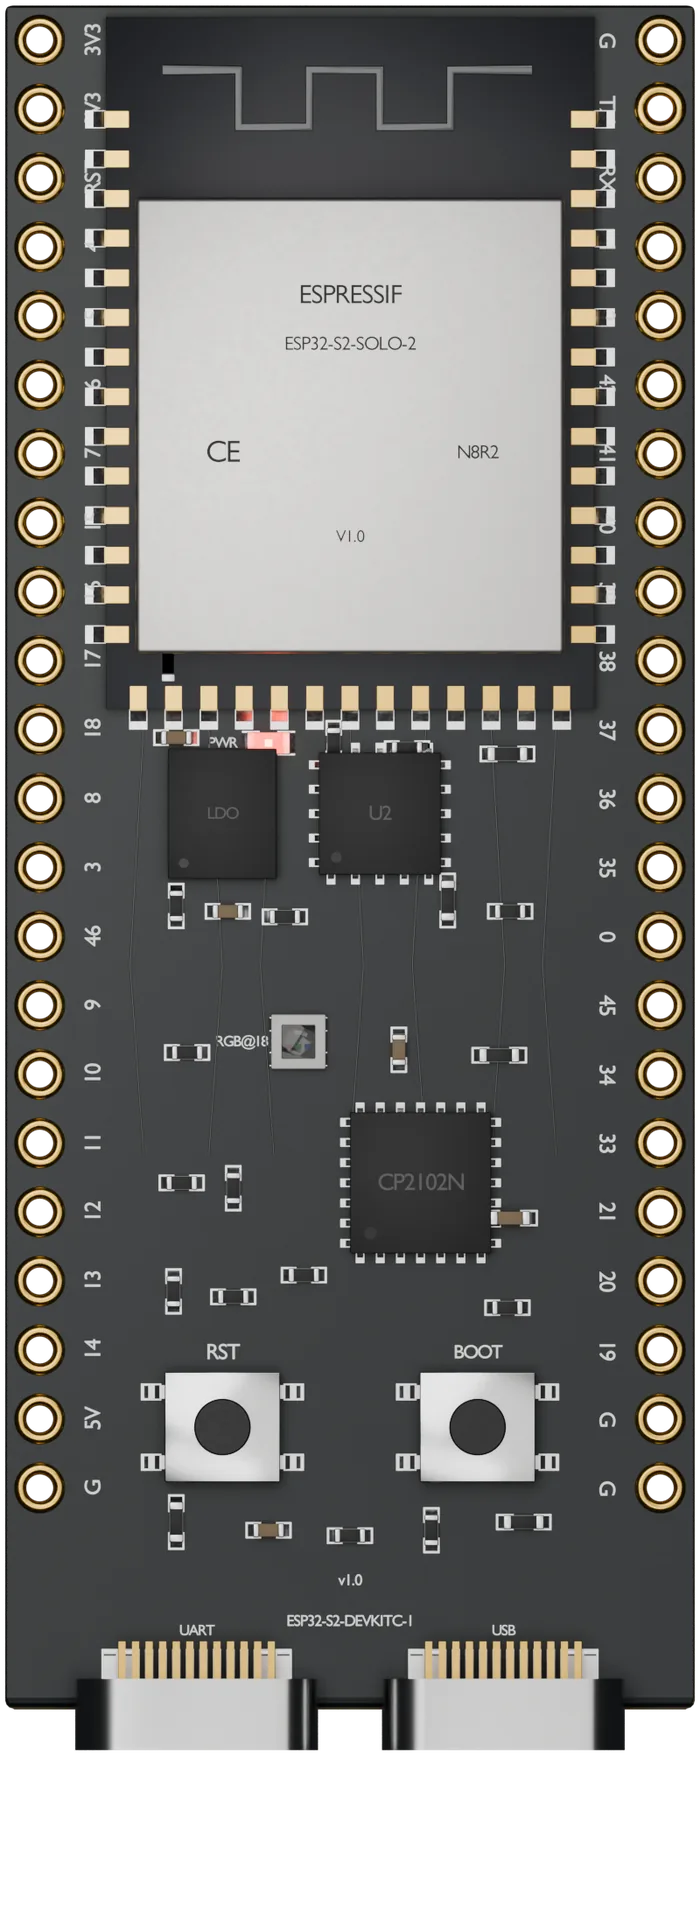
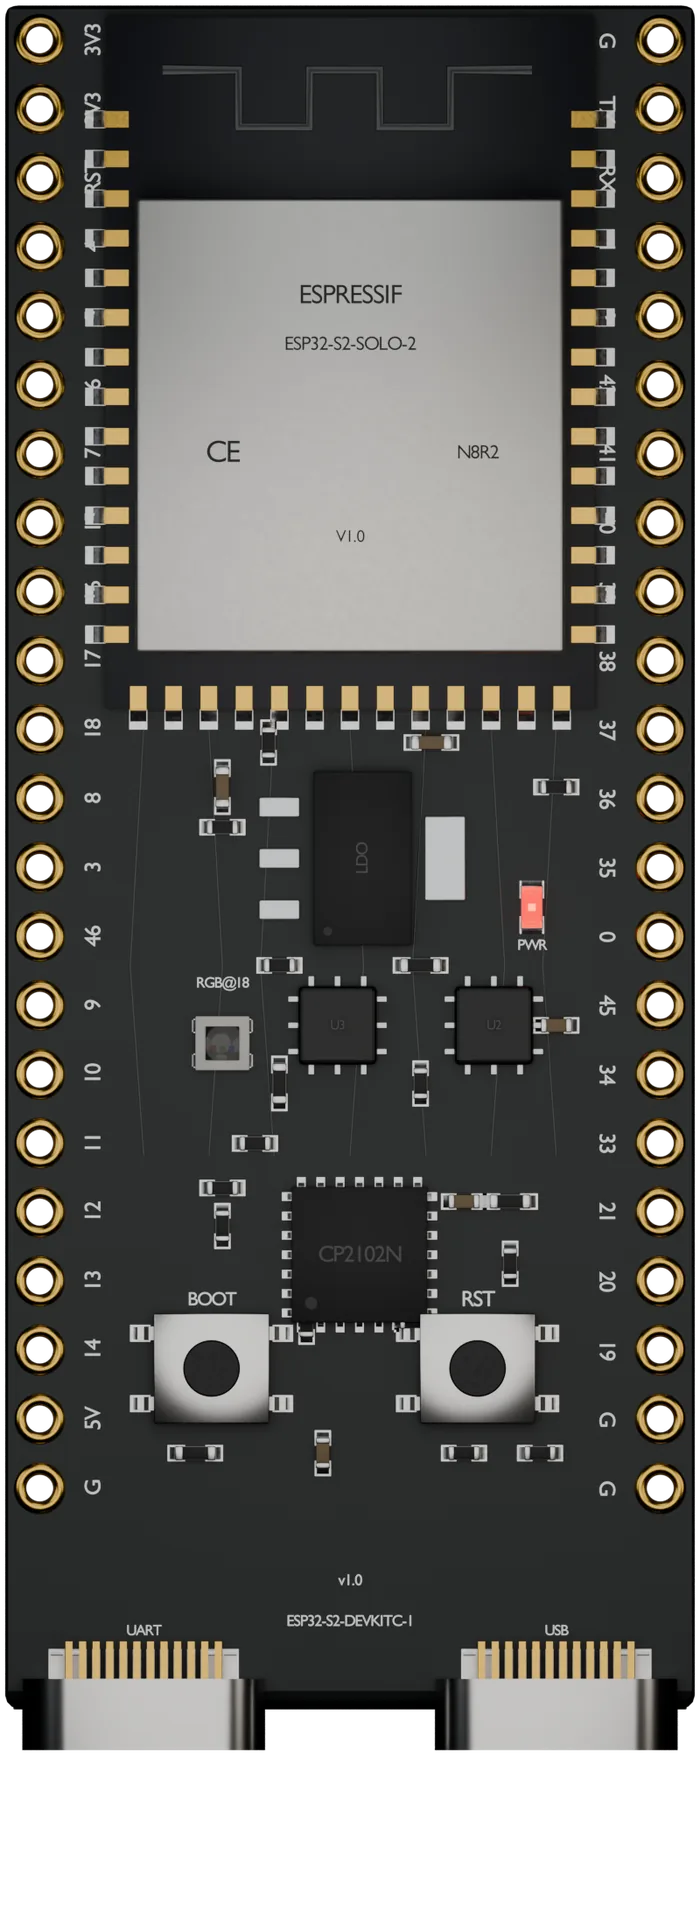
feat(boards): place Espressif DevKit parts from photos, not PCB layouts
The ESP32-C3-DevKitM-1, S2-DevKitC-1, S3-DevKitC-1, C6-DevKitC-1,
C6-DevKitM-1 and H2-DevKitM-1 renders placed their chips from
Espressif's PCB layout PDFs, or from a shared template. Each board's
LDO, USB-UART bridge, LEDs, buttons and USB-C connectors are now placed
from Espressif's annotated photograph or pinout illustration; board
size, headers and module still come from the dimension drawings.

Every render keeps its camera and resolution, and the header hole
centres match the previous renders within 0.74 px, so board.json pins
and controllerGeometry stay valid. The S3 and C6-DevKitC-1 UART
connectors moved, so their usbPoint follows the rebuilt mouth.

diff --git a/src/components/BuildDiagram/controllerGeometry.ts b/src/components/BuildDiagram/controllerGeometry.ts
@@ -92,7 +92,7 @@ const CONTROLLER_SPECS: Record<string, ControllerRenderSpec> = {
     // The UART port, not the native-USB one: that's the port this app's upload
     // path drives, so it's the one a builder will have a cable in. The rebuilt
     // model seats both receptacles 1.5 mm past the edge instead of 7.7 mm.
-    usbPoint: { x: 224.717, y: 1991.275 },
+    usbPoint: { x: 164.22, y: 2000.271 },
     shortLabel: 'ESP32-S3 DevKitC-1',
   },
   // 20 + 20 rails. Pad rows are the model's own rail-label Y coordinates, which
@@ -200,7 +200,7 @@ const CONTROLLER_SPECS: Record<string, ControllerRenderSpec> = {
     // Row 1 of each header: the stubs leave opposite edges at the same height.
     powerAnchors: { v3v3: 'j1-1', ground: 'j3-1' },
     // The UART port, as on the S3 DevKitC-1: the one the upload path drives.
-    usbPoint: { x: 224.717, y: 1868 },
+    usbPoint: { x: 151.811, y: 1868.589 },
     shortLabel: 'ESP32-C6 DevKitC-1',
   },
   // 8 + 8 rails 22.86 mm apart on a 78.184px pitch.

diff --git a/todo.md b/todo.md
@@ -101,13 +101,11 @@ more after the freeze.
 - [ ] Complete the licence notices, and settle the AnimARTrix
   non-commercial terms. Every board and part render is to be project-made,
   needing no third-party licence. An audit on 2026-11-19 found 19 that took
-  geometry from vendor files; the MIDI FeatherWing, WIZ850io and NLED Pixel
-  Data Extender are remodelled. Left to remodel from photographs and published
-  dimensions: BH1750, BME280, INA219, VL53L0X, Seeed 2-channel SSR, Seeed touch
-  sensor, MAX98357A and its stereo pair, UDA1334A and Mosfetti (vendor board
-  files or prints), and the ESP32-C3-DevKitM-1, ESP32-S2-DevKitC-1,
-  ESP32-S3-DevKitC-1, ESP32-C6-DevKitC-1, ESP32-C6-DevKitM-1 and
-  ESP32-H2-DevKitM-1 (chips placed from Espressif's PCB layout PDFs). Then drop
+  geometry from vendor files; the MIDI FeatherWing, WIZ850io, NLED Pixel Data
+  Extender and the six Espressif DevKit boards are remodelled. Left to
+  remodel from photographs and published dimensions: BH1750, BME280, INA219,
+  VL53L0X, Seeed 2-channel SSR, Seeed touch sensor, MAX98357A and its stereo
+  pair, UDA1334A and Mosfetti (vendor board files or prints). Then drop
   the render table from `THIRD_PARTY_NOTICES.md`, and settle AnimARTrix with
   Stefan.
 - [x] Fill the CHANGELOG gaps.
